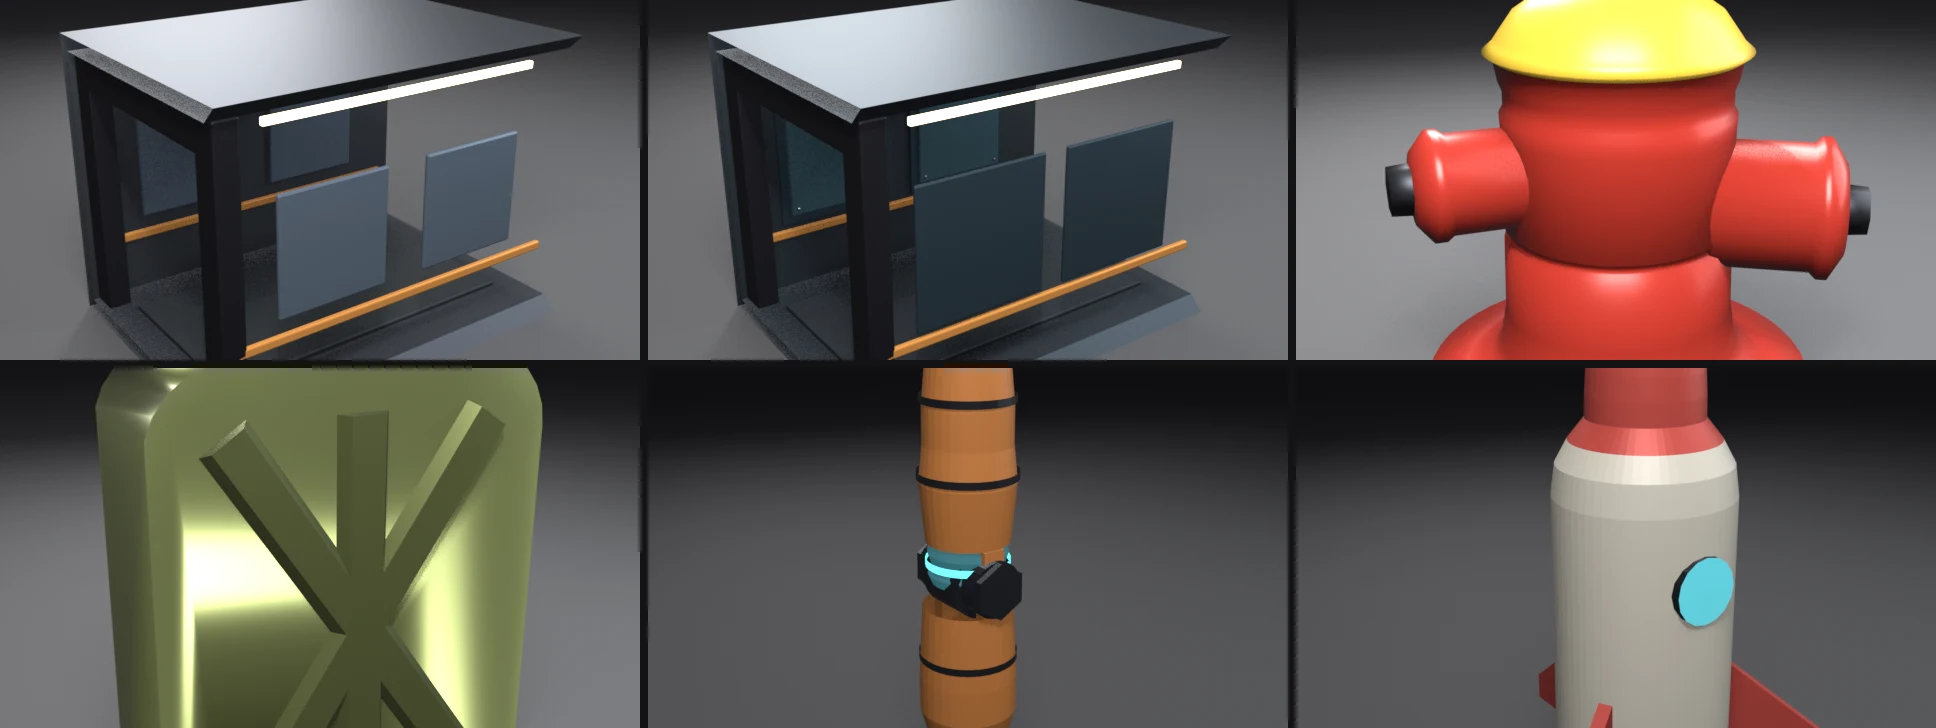
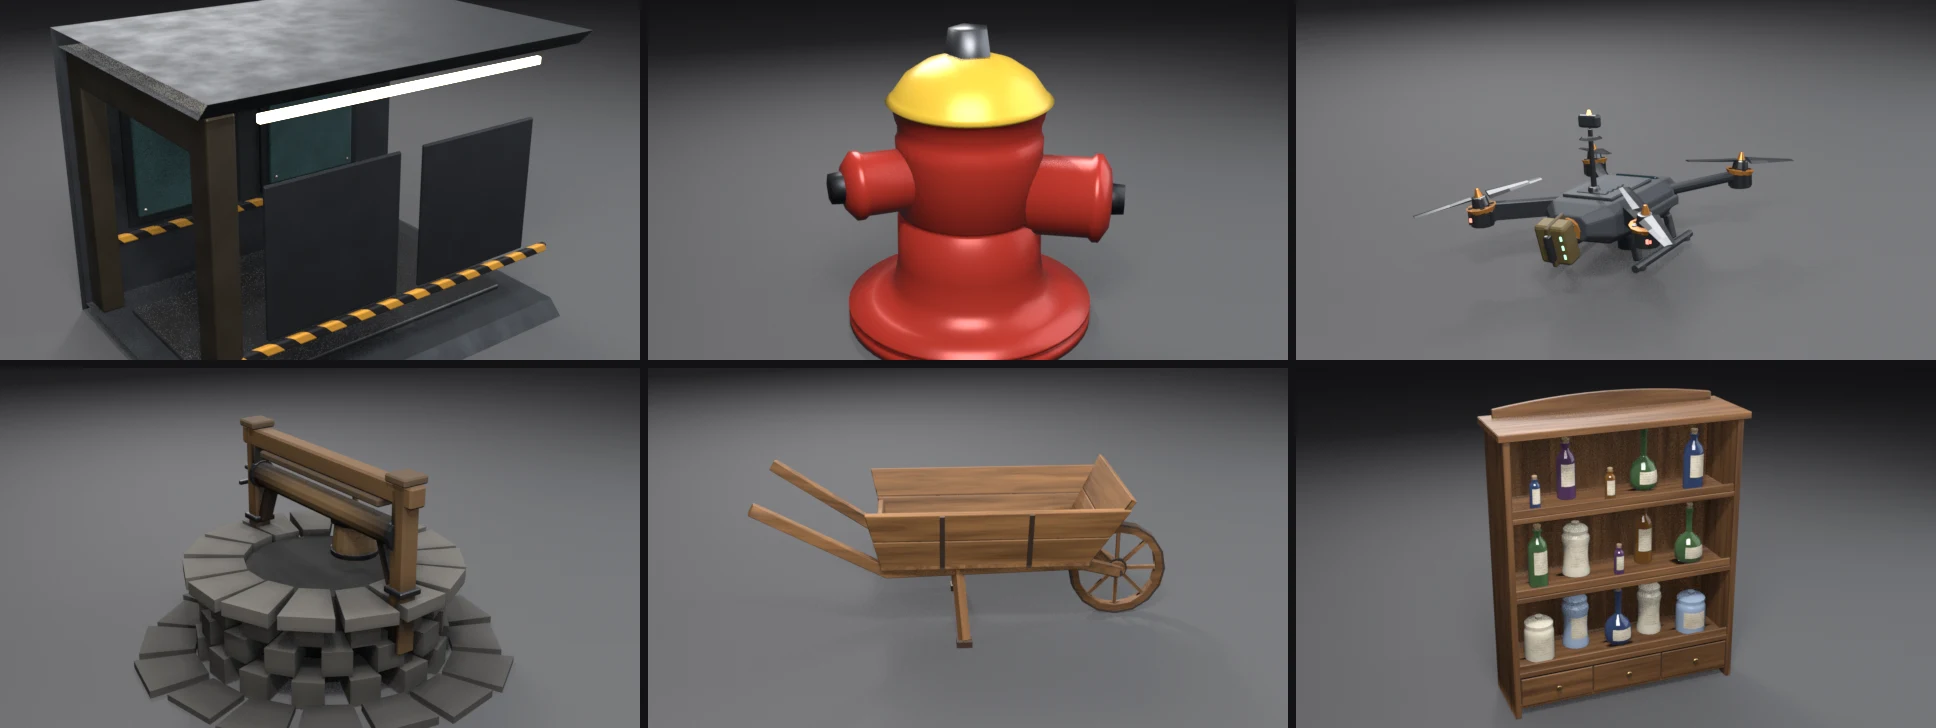
fix(examples): redesign modular-kit-snap surfaces as painted, tread-plated, hazard-striped kit
The wall panels were metallic 0.6 teal at low roughness and read as glass.
They are now matte painted steel with noise wear. The walkway plate gets a
procedural diamond-plate bump, the trim rails get diagonal hazard stripes,
the rib frames get a bronze-steel paint, and the far door is less blown out.
Every texture reads Object coordinates, and every kit part's origin is the
segment pivot, so the patterns are identical per instance and continuous
across a snapped joint, like the geometry. Geometry and checks are unchanged.

Also fixes a latent crash: _mat_cache outlived read_factory_settings, so
--output plus --falsify in one run handed the second scene freed materials
("StructRNA of type Material has been removed"). render_still now clears it.

Evidence (live runs, local):
- .scratch/blender-5.2.1-windows-x64/blender.exe (Blender 5.2.1 LTS):
  check exit 0 (boundary=16v/16e, joint yz=0, bbox_dev=0); render gates
  framing_deviation 5.0584 <= cap 8.0, aq_ok (materials n=8, edge90 0.001).
  --close-camera exits 10 (deviation 30.9012).
- .scratch/blender-4.5.11-windows-x64/blender.exe (Blender 4.5.11 LTS):
  check exit 0; --output plus --falsify both render (exit 0 after the cache
  fix; exit 1 before it).
- Contact sheet: candidate luma 0.254 / stage 0.258 / warmth +0.224 /
  sat 0.197 against armature-bend 0.243/0.192/-0.144/0.237, damped-track-aim
  0.151/0.145/+0.277/0.231, and bmesh-gear 0.236/0.177/+0.303/0.250. The
[…]

diff --git a/examples/modular-kit-snap/modular_kit_snap.py b/examples/modular-kit-snap/modular_kit_snap.py
@@ -399,10 +399,20 @@ def check():
 # Render
 # ---------------------------------------------------------------------------
 
-def make_material(name, rgb, rough=0.45, metallic=0.6, emit=None, estr=0.0):
+def make_material(name, rgb, rough=0.45, metallic=0.6, emit=None, estr=0.0,
+                  wear=0.0, tread=False, stripes=None):
+    """Principled material; optional procedural surface language.
+
+    Every texture reads Object coordinates, and every kit part's origin is the
+    segment pivot, so the patterns are functions of segment-local position:
+    identical in each instance and continuous across a snapped joint, exactly
+    like the geometry. wear mottles colour and roughness; tread adds a
+    diamond-plate bump; stripes=(rgb_b, period) paints diagonal hazard bands.
+    """
     mat = bpy.data.materials.new(name)
     mat.use_nodes = True
-    b = mat.node_tree.nodes["Principled BSDF"]
+    nt = mat.node_tree
+    b = nt.nodes["Principled BSDF"]
     b.inputs["Base Color"].default_value = (*rgb, 1.0)
     b.inputs["Roughness"].default_value = rough
     b.inputs["Metallic"].default_value = metallic
@@ -410,18 +420,97 @@ def make_material(name, rgb, rough=0.45, metallic=0.6, emit=None, estr=0.0):
         sock = b.inputs.get("Emission Color") or b.inputs["Emission"]
         sock.default_value = (*emit, 1.0)
         b.inputs["Emission Strength"].default_value = estr
+    if not (wear or tread or stripes):
+        return mat
+    coord = nt.nodes.new("ShaderNodeTexCoord").outputs["Object"]
+    color_out = None
+    if stripes:
+        rgb_b, period = stripes
+        wave = nt.nodes.new("ShaderNodeTexWave")
+        wave.wave_type = "BANDS"
+        wave.bands_direction = "DIAGONAL"
+        # Blender wave phase is 20 * scale * coordinate: one band per `period` metres
+        wave.inputs["Scale"].default_value = 2.0 * math.pi / (20.0 * period)
+        wave.inputs["Distortion"].default_value = 0.0
+        nt.links.new(coord, wave.inputs["Vector"])
+        step = nt.nodes.new("ShaderNodeMath")
+        step.operation = "GREATER_THAN"
+        step.inputs[1].default_value = 0.5
+        nt.links.new(wave.outputs["Fac"], step.inputs[0])
+        mix = nt.nodes.new("ShaderNodeMix")
+        mix.data_type = "RGBA"
+        mix.inputs[6].default_value = (*rgb, 1.0)
+        mix.inputs[7].default_value = (*rgb_b, 1.0)
+        nt.links.new(step.outputs["Value"], mix.inputs[0])
+        color_out = mix.outputs[2]
+    if wear:
+        noise = nt.nodes.new("ShaderNodeTexNoise")
+        noise.inputs["Scale"].default_value = 3.5
+        noise.inputs["Detail"].default_value = 8.0
+        nt.links.new(coord, noise.inputs["Vector"])
+        dirt = nt.nodes.new("ShaderNodeMix")
+        dirt.data_type = "RGBA"
+        dirt.blend_type = "MULTIPLY"
+        dirt.inputs[0].default_value = wear
+        if color_out is not None:
+            nt.links.new(color_out, dirt.inputs[6])
+        else:
+            dirt.inputs[6].default_value = (*rgb, 1.0)
+        ramp = nt.nodes.new("ShaderNodeValToRGB")
+        ramp.color_ramp.elements[0].position = 0.38
+        ramp.color_ramp.elements[0].color = (0.45, 0.42, 0.38, 1.0)
+        ramp.color_ramp.elements[1].position = 0.68
+        ramp.color_ramp.elements[1].color = (1.0, 1.0, 1.0, 1.0)
+        nt.links.new(noise.outputs["Fac"], ramp.inputs["Fac"])
+        nt.links.new(ramp.outputs["Color"], dirt.inputs[7])
+        color_out = dirt.outputs[2]
+        rmap = nt.nodes.new("ShaderNodeMapRange")
+        rmap.inputs["To Min"].default_value = rough + 0.15
+        rmap.inputs["To Max"].default_value = rough - 0.10
+        nt.links.new(noise.outputs["Fac"], rmap.inputs["Value"])
+        nt.links.new(rmap.outputs["Result"], b.inputs["Roughness"])
+    if color_out is not None:
+        nt.links.new(color_out, b.inputs["Base Color"])
+    if tread:
+        # diamond plate: two crossed wave bands make a lozenge lattice bump
+        bump = nt.nodes.new("ShaderNodeBump")
+        bump.inputs["Strength"].default_value = 1.0
+        bump.inputs["Distance"].default_value = 0.012
+        mul = nt.nodes.new("ShaderNodeMath")
+        mul.operation = "MULTIPLY"
+        for i, rot in enumerate((0.785, -0.785)):
+            mapping = nt.nodes.new("ShaderNodeMapping")
+            mapping.inputs["Rotation"].default_value = (0.0, 0.0, rot)
+            nt.links.new(coord, mapping.inputs["Vector"])
+            wv = nt.nodes.new("ShaderNodeTexWave")
+            wv.wave_type = "BANDS"
+            wv.bands_direction = "X"
+            wv.wave_profile = "SAW"
+            wv.inputs["Scale"].default_value = 6.0
+            wv.inputs["Distortion"].default_value = 0.0
+            nt.links.new(mapping.outputs["Vector"], wv.inputs["Vector"])
+            gt = nt.nodes.new("ShaderNodeMath")
+            gt.operation = "GREATER_THAN"
+            gt.inputs[1].default_value = 0.72
+            nt.links.new(wv.outputs["Fac"], gt.inputs[0])
+            nt.links.new(gt.outputs["Value"], mul.inputs[i])
+        nt.links.new(mul.outputs["Value"], bump.inputs["Height"])
+        nt.links.new(bump.outputs["Normal"], b.inputs["Normal"])
     return mat
 
 
+# (name, rgb, roughness, metallic, emission rgb, emission strength, extras)
 SEGMENT_MATS = {
-    "Shell": ("Shell", (0.075, 0.095, 0.115), 0.5, 0.8, None, 0.0),
-    "Rib": ("Rib", (0.05, 0.05, 0.06), 0.45, 0.85, None, 0.0),
-    "FloorPlate": ("FloorPlate", (0.06, 0.075, 0.09), 0.6, 0.7, None, 0.0),
-    "Panel": ("Panel", (0.10, 0.21, 0.26), 0.42, 0.6, None, 0.0),
-    "PanelBack": ("PanelBack", (0.06, 0.10, 0.13), 0.5, 0.75, None, 0.0),
-    "PanelBolts": ("PanelBolts", (0.35, 0.38, 0.42), 0.3, 0.9, None, 0.0),
-    "Trim": ("Trim", (0.85, 0.35, 0.08), 0.35, 0.3, None, 0.0),
-    "Light": ("LightStrip", (0.30, 0.25, 0.18), 0.5, 0.2, (1.0, 0.75, 0.4), 8.0),
+    "Shell": ("Shell", (0.055, 0.062, 0.072), 0.55, 0.55, None, 0.0, dict(wear=0.55)),
+    "Rib": ("Rib", (0.16, 0.13, 0.09), 0.42, 0.85, None, 0.0, dict(wear=0.5)),
+    "FloorPlate": ("FloorPlate", (0.20, 0.205, 0.21), 0.38, 0.9, None, 0.0,
+                   dict(wear=0.6, tread=True)),
+    "Panel": ("Panel", (0.05, 0.12, 0.125), 0.62, 0.05, None, 0.0, dict(wear=0.45)),
+    "PanelBack": ("PanelBack", (0.045, 0.05, 0.058), 0.48, 0.7, None, 0.0, dict(wear=0.4)),
+    "PanelBolts": ("PanelBolts", (0.62, 0.58, 0.50), 0.3, 1.0, None, 0.0, {}),
+    "Trim": ("Trim", (0.90, 0.42, 0.05), 0.45, 0.1, None, 0.0,
+             dict(wear=0.35, stripes=((0.02, 0.02, 0.022), 0.16))),
+    "Light": ("LightStrip", (0.30, 0.25, 0.18), 0.5, 0.2, (1.0, 0.78, 0.48), 14.0, {}),
 }
 
 
@@ -433,8 +522,8 @@ def mat_for(suffix):
     revision instantiated a duplicate material per part per segment)."""
     key = suffix.split(".")[0]
     if key not in _mat_cache:
-        name, rgb, rough, metal, emit, estr = SEGMENT_MATS[key]
-        _mat_cache[key] = make_material(name, rgb, rough, metal, emit, estr)
+        name, rgb, rough, metal, emit, estr, extra = SEGMENT_MATS[key]
+        _mat_cache[key] = make_material(name, rgb, rough, metal, emit, estr, **extra)
     return _mat_cache[key]
 
 
@@ -513,7 +602,8 @@ def build_bulkhead(sc):
     Not part of the kit — the corridor's destination for this still."""
     frame_mat = make_material("Bulkhead", (0.06, 0.06, 0.07), rough=0.4, metallic=0.85)
     door_mat = make_material("BulkheadDoor", (0.30, 0.16, 0.07), rough=0.5,
-                             metallic=0.3, emit=(1.0, 0.42, 0.12), estr=0.5)
+                             metallic=0.3, emit=(1.0, 0.42, 0.12), estr=0.22,
+                             wear=0.5)
     inner_y = WIDTH / 2 - WALL
     end_x = TILE * 4
     parts = []
@@ -560,6 +650,9 @@ def render_still(path, engine, falsify=False, close_camera=False):
     steps, so every joint reads as a seam — the render-scale exaggeration of
     the failure the check measures at 3 mm (probe_unsnapped)."""
     bpy.ops.wm.read_factory_settings(use_empty=True)
+    # the factory reset freed every cached material; --output then --falsify
+    # in one run would otherwise hand the second scene dead RNA references
+    _mat_cache.clear()
     sc = bpy.context.scene
 
     all_parts = []

diff --git a/README.md b/README.md
@@ -1141,7 +1141,7 @@ check first caught the weld) and [`mesh-hygiene-audit`](examples/mesh-hygiene-au
 </tr>
 <tr>
 <td width="46%" valign="middle">
-<a href="examples/modular-kit-snap/"><img src="examples/modular-kit-snap/preview.webp" alt="Modular kit snap: a corridor run of four tiling segments — dark steel walls with blue-gray panels, orange trim rails, and ceiling light strips converging on a glowing amber doorway, with every joint seamless because the boundary verts snap exactly to the tile grid" /></a>
+<a href="examples/modular-kit-snap/"><img src="examples/modular-kit-snap/preview.webp" alt="Modular kit snap: a corridor run of four tiling segments — dark steel walls with painted teal panels, diamond-plate walkways, hazard-striped orange trim rails, and ceiling light strips converging on a glowing amber doorway, with every joint seamless because the boundary verts snap exactly to the tile grid" /></a>
 </td>
 <td valign="middle">
 

diff --git a/examples/modular-kit-snap/README.md b/examples/modular-kit-snap/README.md
@@ -66,7 +66,11 @@ is now an assembly (backing plate + inset panel + four bolt heads), the
 palette shifted teal-slate so the card does not twin with
 `lightmap-uv-channel`'s warm cart, and mean luminance was brought into the
 calibration range (82.7 → 66.1, ceiling 77.7) — no luminance deviation
-needed.
+needed. The surface language is procedural and reads **Object** coordinates:
+every part's origin is the segment pivot, so painted-panel wear, the walkway's
+diamond-plate bump and the diagonal hazard stripes on the trim rails are
+functions of segment-local position — identical in every instance and
+continuous across a snapped joint, exactly like the geometry.
 
 **Framing deviation:** the still is an interior corridor run — the envelope
 surrounds the camera on five sides and the tiling joints are the proof, so
